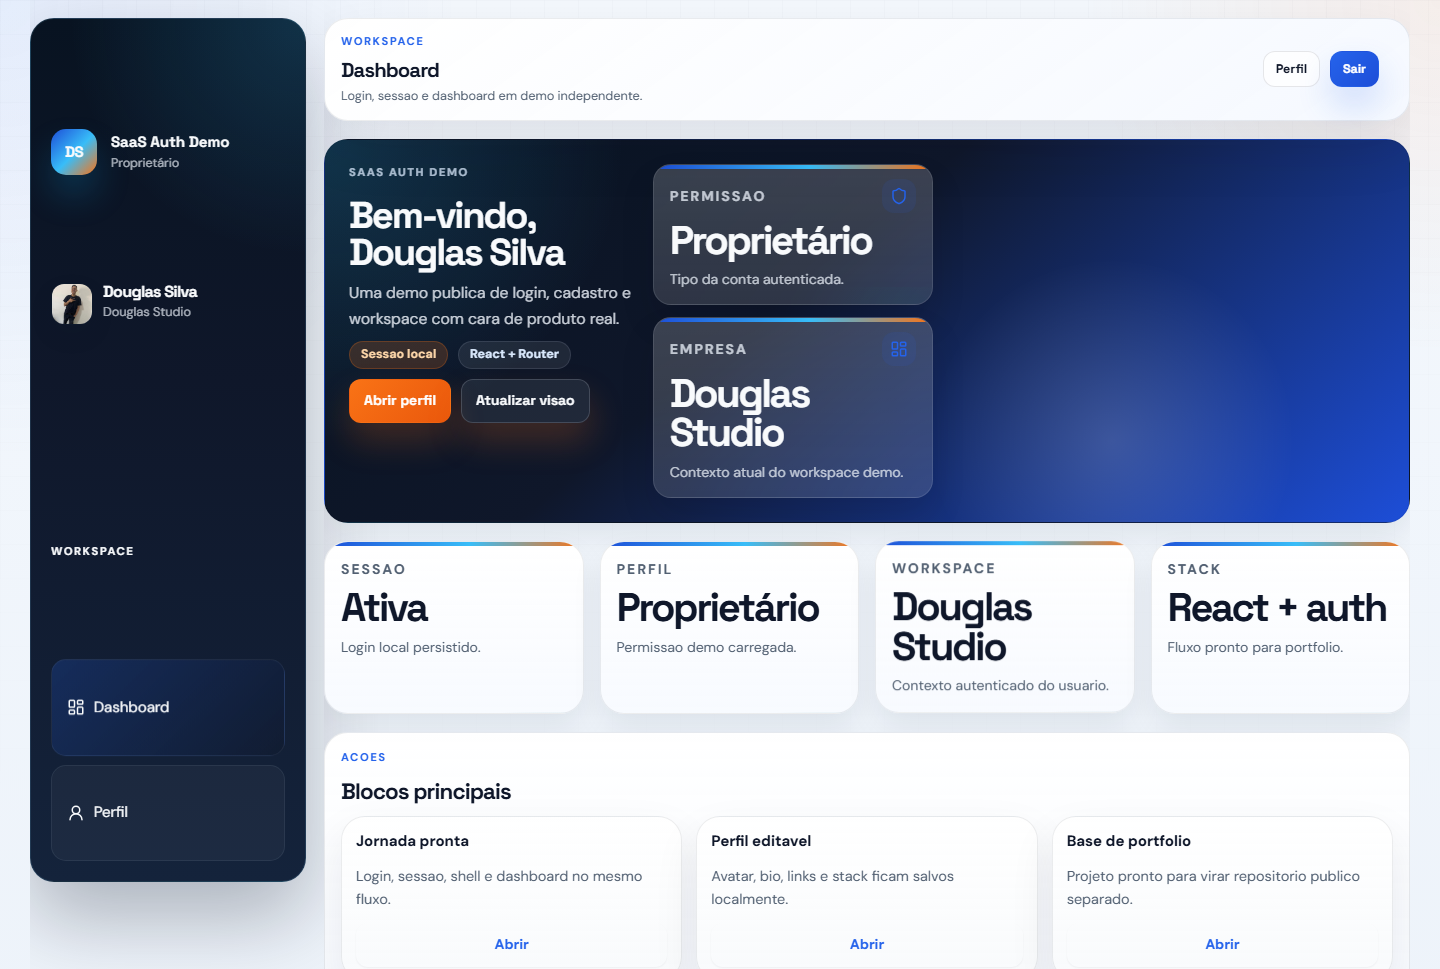
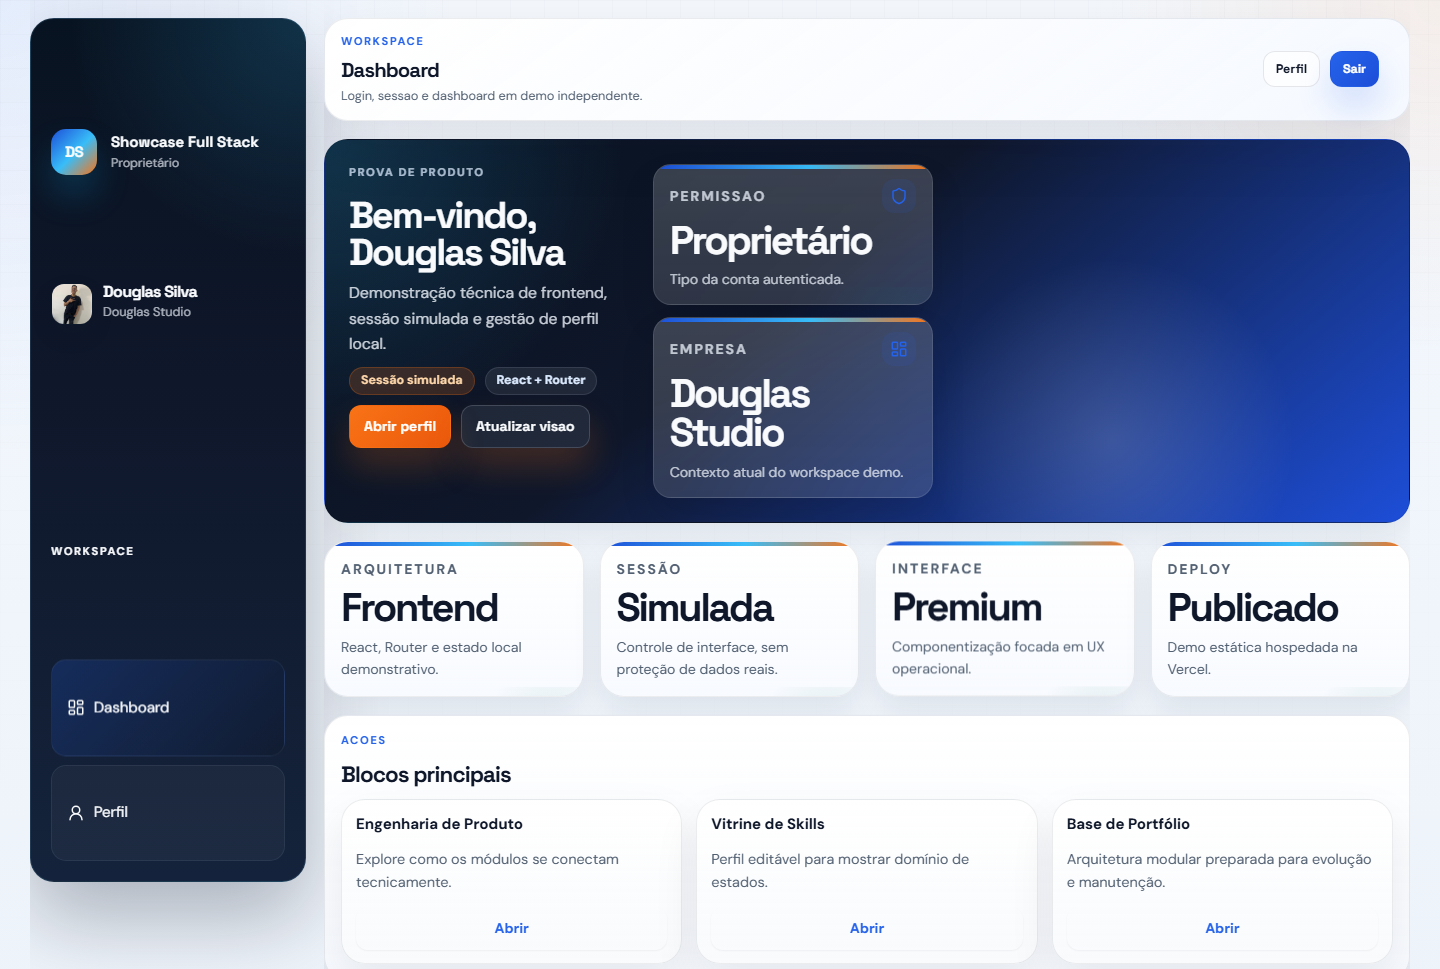
fix: remove alegacoes sem evidencia do dashboard

diff --git a/src/pages/Dashboard.jsx b/src/pages/Dashboard.jsx
@@ -23,28 +23,28 @@ export default function Dashboard() {
 
   const metrics = isAdminUser
     ? [
-        { label: "Arquitetura", value: "Full Stack", detail: "Base técnica em React, Node e MongoDB." },
-        { label: "Segurança", value: "JWT + Auth", detail: "Sessão persistente e rotas protegidas." },
+        { label: "Arquitetura", value: "Frontend", detail: "React, Router e estado local demonstrativo." },
+        { label: "Sessão", value: "Simulada", detail: "Controle de interface, sem proteção de dados reais." },
         { label: "Interface", value: "Premium", detail: "Componentização focada em UX operacional." },
-        { label: "Deploy", value: "Publicado", detail: "Ambiente real para prova de produto." },
+        { label: "Deploy", value: "Publicado", detail: "Demo estática hospedada na Vercel." },
       ]
     : [
         { label: "Modo", value: "Demonstração", detail: "Experiência guiada de produto e engenharia." },
         { label: "Persistência", value: "Local", detail: "Dados salvos em sessão para simular sistema real." },
         { label: "Objetivo", value: "Prova Técnica", detail: "Demonstrar domínio de CRUD e Dashboards." },
-        { label: "Status", value: "Seguro", detail: "Leitura pública sem mutação no banco real." },
+        { label: "Status", value: "Local", detail: "Sem banco ou autenticação real." },
       ]
 
   const quickCards = isAdminUser
     ? [
         { title: "Engenharia de Produto", detail: "Explore como os módulos se conectam tecnicamente.", to: "/dashboard" },
         { title: "Vitrine de Skills", detail: "Perfil editável para mostrar domínio de estados.", to: "/perfil" },
-        { title: "Base de Portfólio", detail: "Arquitetura modular pronta para escala e manutenção.", to: "/perfil" },
+        { title: "Base de Portfólio", detail: "Arquitetura modular preparada para evolução e manutenção.", to: "/perfil" },
       ]
     : [
         { title: "Simulação de Fluxo", detail: "Entenda a lógica de um workspace autenticado.", to: "/perfil" },
         { title: "Consistência Técnica", detail: "Mesma stack da landing até o dashboard interno.", to: "/dashboard" },
-        { title: "Foco em Solução", detail: "Prova de que o sistema resolve demandas reais.", to: "/perfil" },
+        { title: "Foco em Interface", detail: "Demonstração dos estados principais da jornada.", to: "/perfil" },
       ]
 
   return (
@@ -67,11 +67,11 @@ export default function Dashboard() {
           </div>
         }
         className="hero-dashboard"
-        description="Demonstração técnica de arquitetura Full Stack, autenticação e gestão operacional."
+        description="Demonstração técnica de frontend, sessão simulada e gestão de perfil local."
         eyebrow="Prova de Produto"
         meta={
           <>
-            <span className="mini-pill emphasis">Sessao local</span>
+            <span className="mini-pill emphasis">Sessão simulada</span>
             <span className="mini-pill">React + Router</span>
           </>
         }

diff --git a/src/pages/Profile.jsx b/src/pages/Profile.jsx
@@ -140,22 +140,6 @@ export default function Profile() {
               : [<span className="mini-pill" key="empty">Sem stack definida</span>]}
           </div>
 
-          {user?.certifications?.length > 0 && (
-            <div className="profile-preview-certifications">
-              <p className="eyebrow">Certificações Técnicas</p>
-              <div className="cert-grid-mini">
-                {user.certifications.map((cert) => (
-                  <div className="surface nested-card cert-card-mini" key={cert.title}>
-                    <IconSymbol className="icon-xs" name="approved" />
-                    <div>
-                      <strong>{cert.title}</strong>
-                      <p className="mini-text">{cert.issuer} • {cert.year}</p>
-                    </div>
-                  </div>
-                ))}
-              </div>
-            </div>
-          )}
         </article>
       </section>
     </>

diff --git a/src/context/AuthContext.jsx b/src/context/AuthContext.jsx
@@ -19,11 +19,6 @@ const seedUsers = [
     linkedin: "https://www.linkedin.com/in/douglassilva11",
     avatarUrl: "https://avatars.githubusercontent.com/Beckerr11?v=4",
     favoriteTechnologies: ["React", "Node.js", "MongoDB", "JWT"],
-    certifications: [
-      { title: "JavaScript Algorithms", issuer: "freeCodeCamp", year: "2024" },
-      { title: "Responsive Web Design", issuer: "freeCodeCamp", year: "2024" },
-      { title: "Foundational C#", issuer: "Microsoft", year: "2024" },
-    ],
   },
   {
     id: "user-client-001",
@@ -58,7 +53,6 @@ function sanitizeUser(user) {
     linkedin: user.linkedin || "",
     avatarUrl: user.avatarUrl || "",
     favoriteTechnologies: Array.isArray(user.favoriteTechnologies) ? user.favoriteTechnologies : [],
-    certifications: Array.isArray(user.certifications) ? user.certifications : [],
   }
 }
 

diff --git a/src/styles.css b/src/styles.css
@@ -2697,38 +2697,3 @@ a:focus-visible {
     padding: 18px;
   }
 }
-
-/* Estilos para Certificações no Perfil */
-.profile-preview-certifications {
-  margin-top: 2rem;
-  padding-top: 1.5rem;
-  border-top: 1px solid var(--line);
-}
-
-.cert-grid-mini {
-  display: grid;
-  gap: 0.75rem;
-  margin-top: 1rem;
-}
-
-.cert-card-mini {
-  display: flex;
-  align-items: center;
-  gap: 0.85rem;
-  padding: 1rem;
-  border-radius: var(--radius-md);
-  background: rgba(255, 255, 255, 0.7);
-  border: 1px solid rgba(19, 61, 102, 0.08);
-}
-
-.cert-card-mini strong {
-  display: block;
-  font-size: 0.92rem;
-  line-height: 1.2;
-}
-
-.mini-text {
-  margin: 0.2rem 0 0;
-  font-size: 0.78rem;
-  color: var(--muted);
-}

diff --git a/src/components/AuthLayout.jsx b/src/components/AuthLayout.jsx
@@ -74,7 +74,7 @@ export default function AuthLayout({
             <span className="mini-pill emphasis">Portfolio</span>
           </div>
 
-          <SectionHeader description="Prova de conceito de arquitetura full stack e fluxos autenticados." eyebrow="Product Proof" title="Engenharia de Produto" />
+          <SectionHeader description="Prova de conceito de frontend, sessão simulada e navegação de dashboard." eyebrow="Product Proof" title="Engenharia de Interface" />
 
           <div className="auth-stat-grid">
             {stats.map((item) => (
